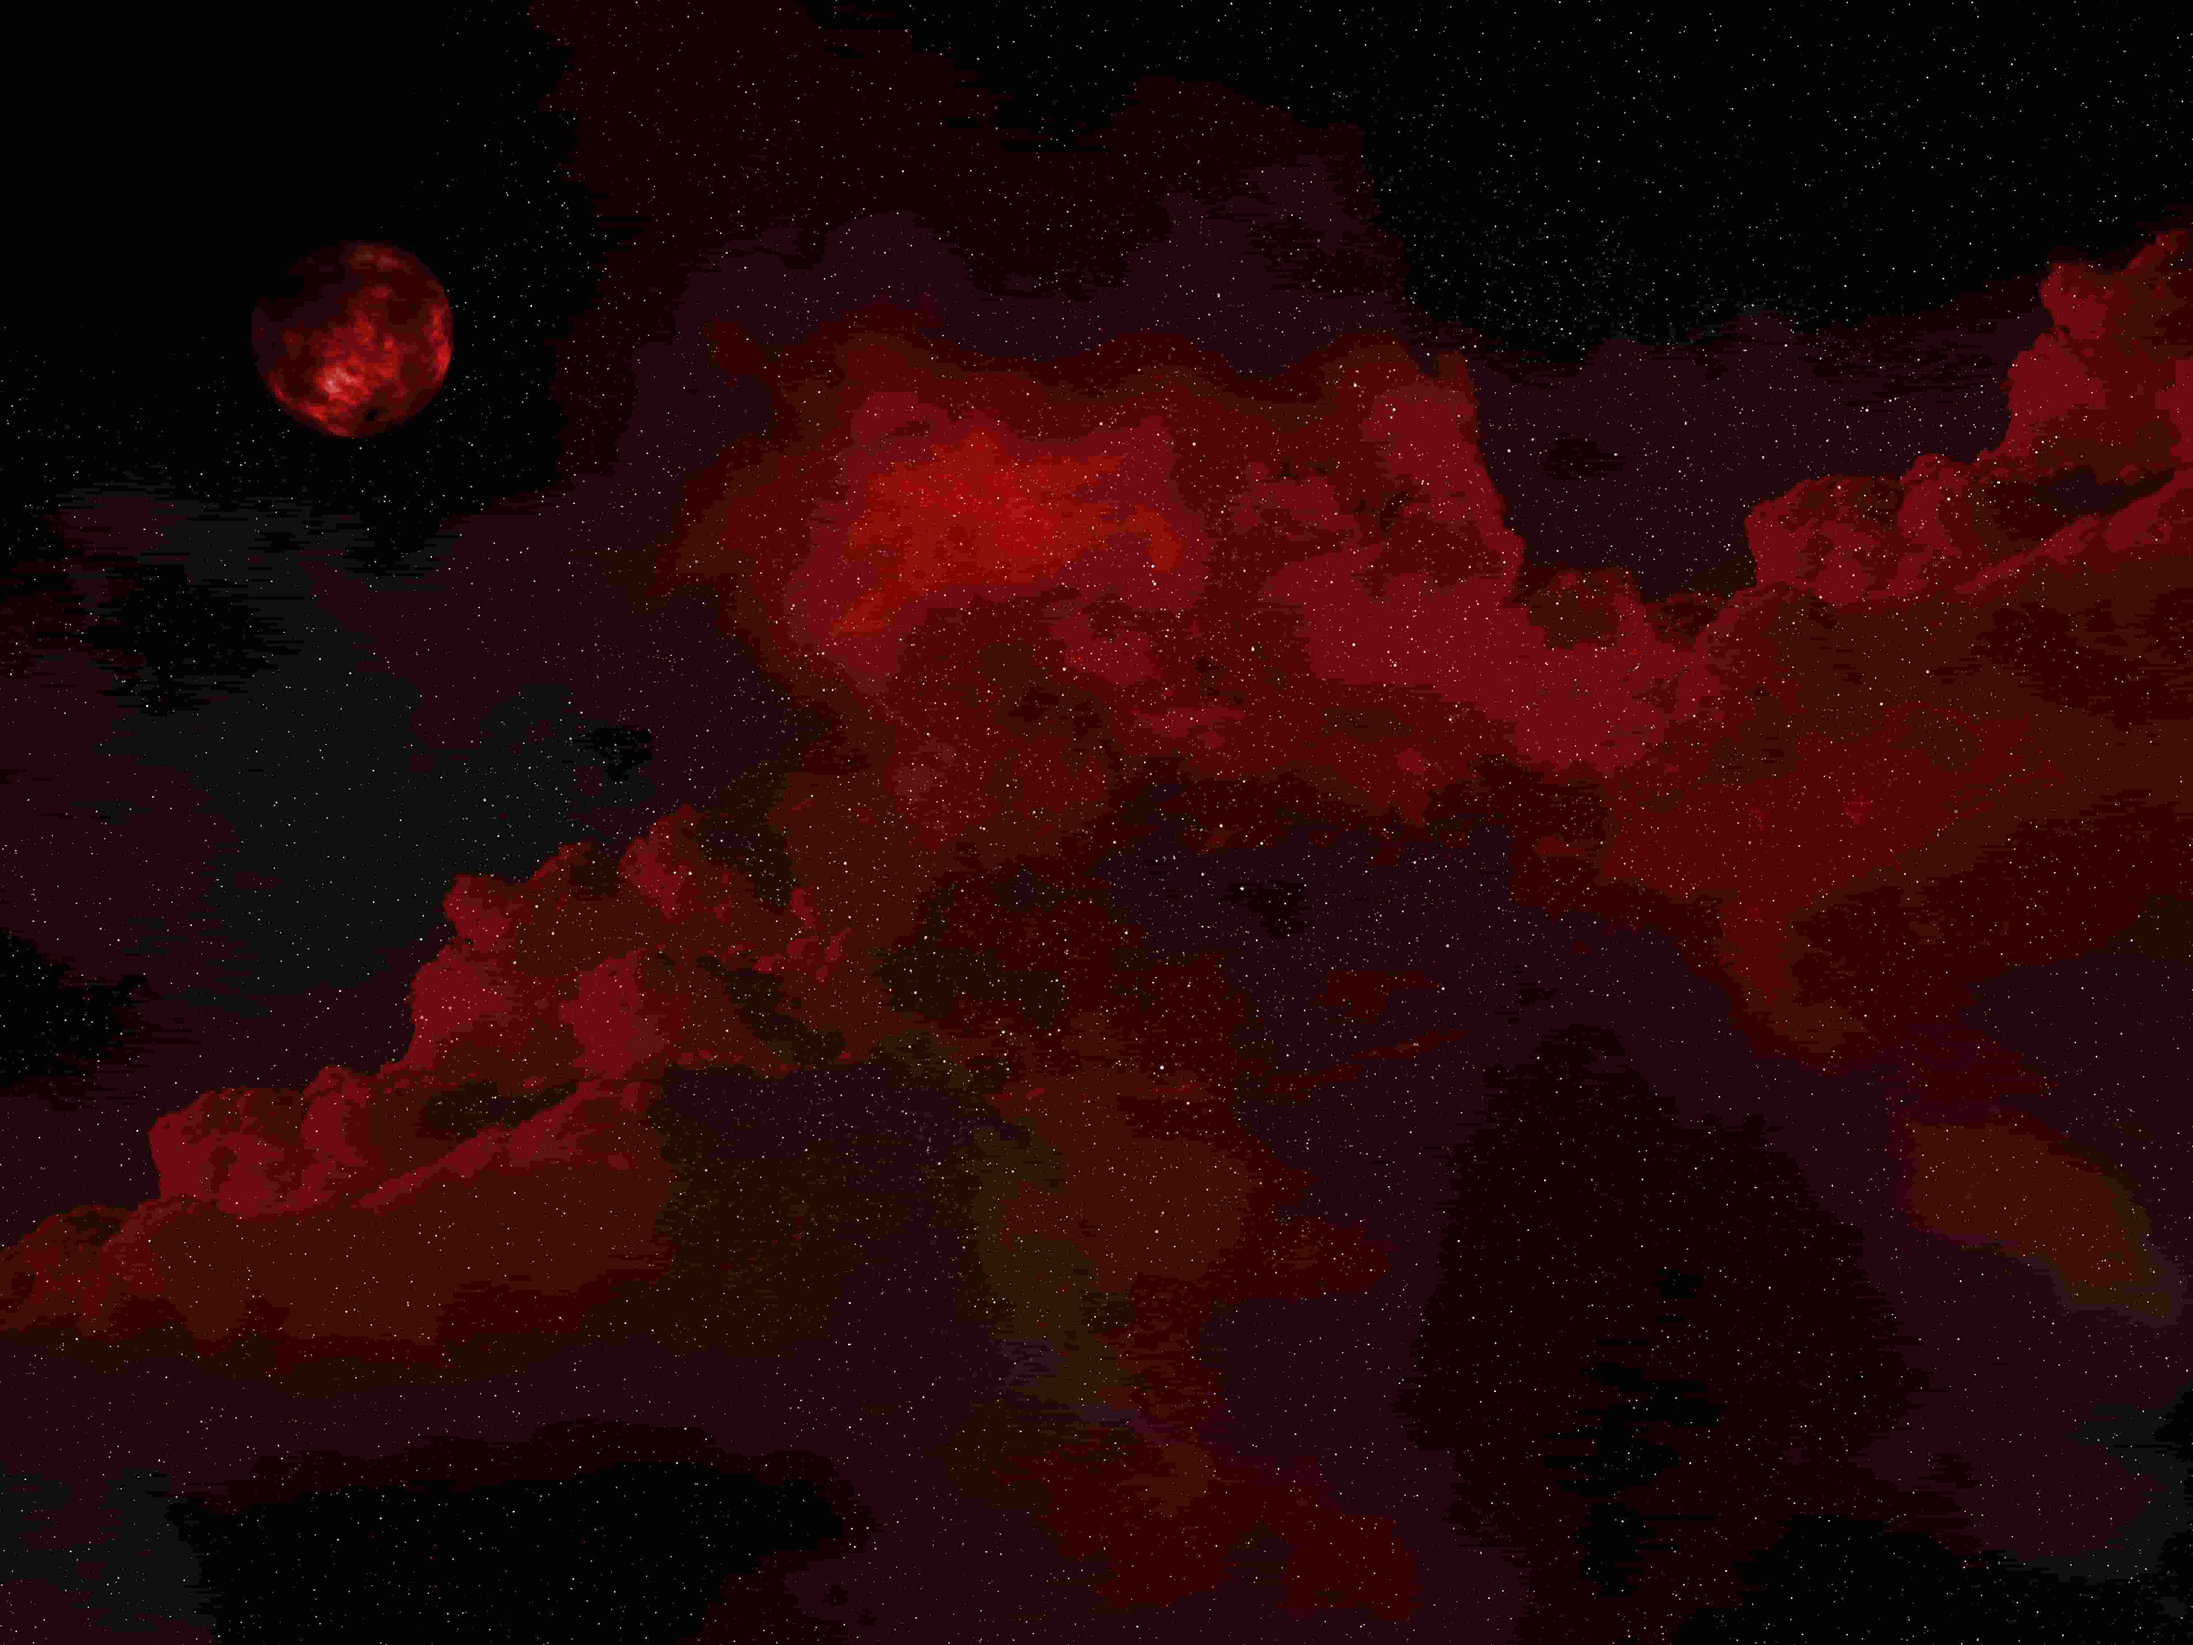
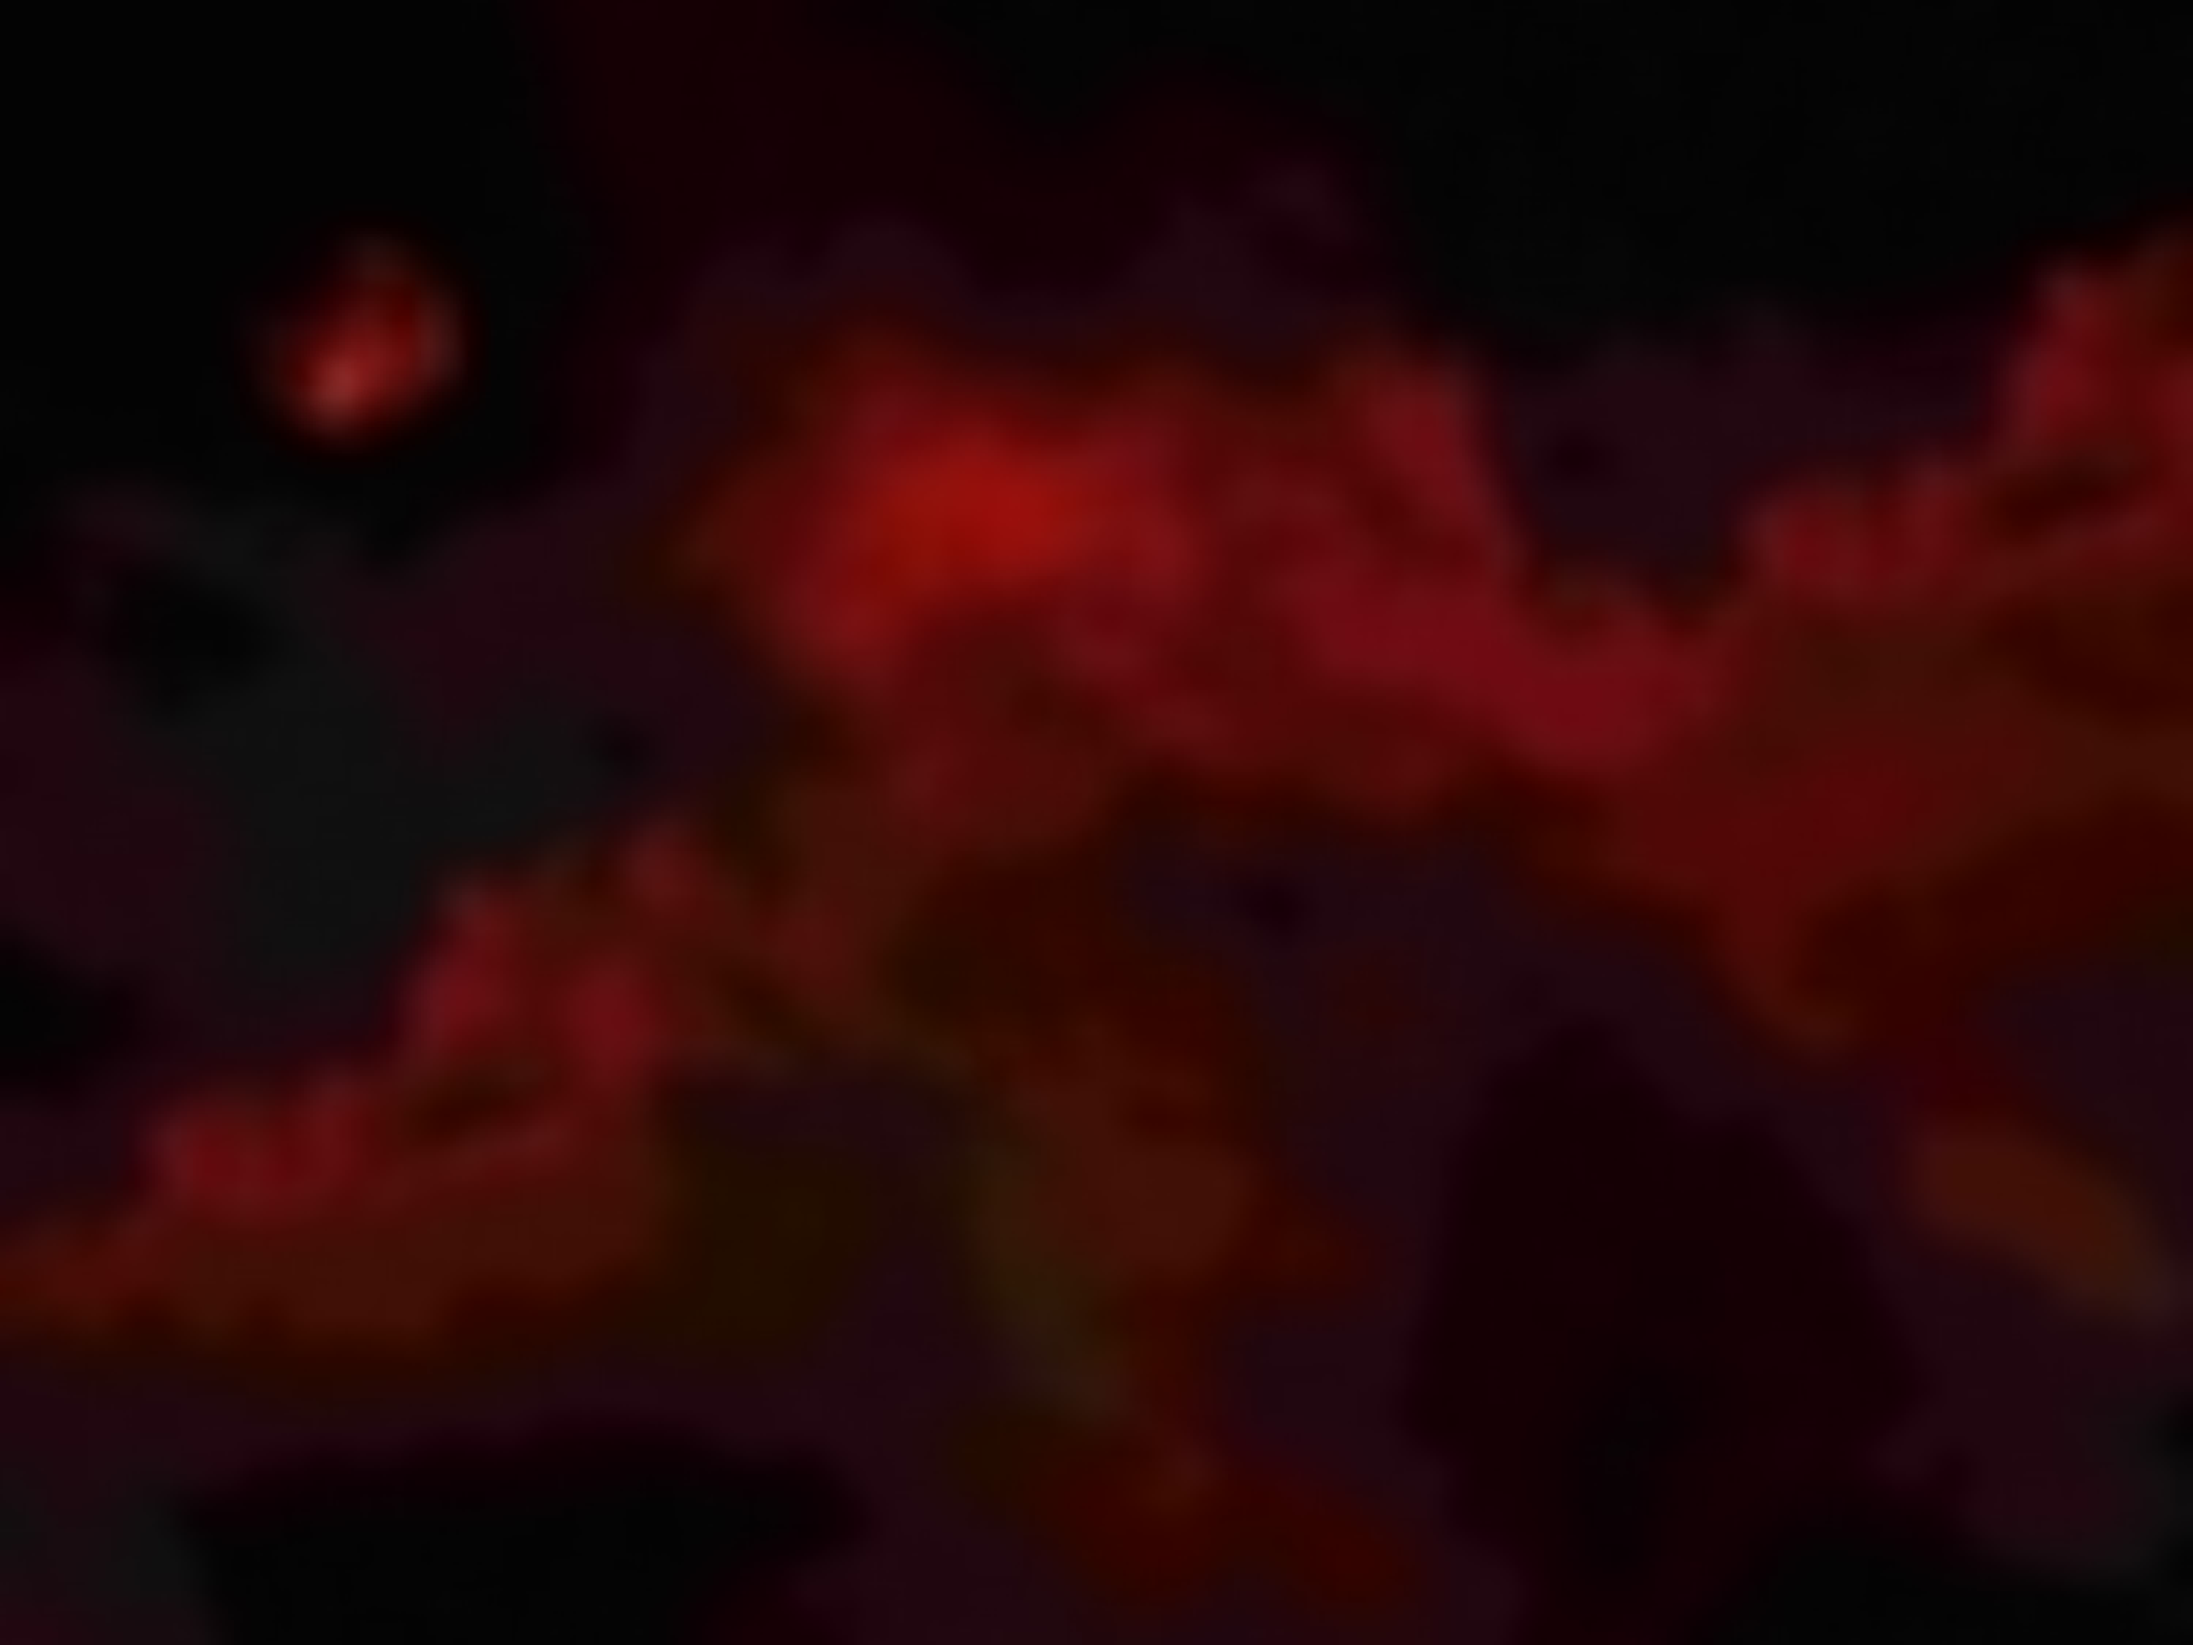
does a lot of css changes and html updates

diff --git a/public/index.html b/public/index.html
@@ -8,16 +8,30 @@
         <link rel="stylesheet" href="css/main.css" />
     </head>
     <body>
-        <div class="bkg"></div>
         <main>
             <header>
                 <h1>~autumn's internet cafe</h1>
             </header>
             <h2>hiii</h2>
             <p>welcome to my corner on the internet!</p>
-            <p>
-                <strong>please remember, this website is in construction!</strong>
-            </p>
+            <p><strong>please remember, this website is in construction!</strong></p>
+            <h2>about</h2>
+            <p>i mean, what do you really put in an about section?</p>
+            <p>if you wanna learn more about me or this website, you can <a href="about">here</a></p>
+            <h2>contact</h2>
+            <p>i got banned off of discord for not wanting to give them my ID</p>
+            <p>there's two ways you can communiate to me for now :)</p>
+            <p>two things you need to know real quick before chatting!</p>
+            <ul>
+                <li>email is slower, and i <strong>HIGHLY RECCOMEND</strong> that you use my GPG key!</li>
+                <li>i will respond faster to you on signal, and you do <strong>NOT</strong> use my GPG key.</li>
+            </ul>
+            <br />
+            <ul>
+                <li><a href="mailto:me@jackpurrin.moe">email (me@jackpurrin.moe)</a></li>
+                <li><a href="assets/keys/main.gpg">my GPG key</a></li>
+                <li><a href="https://signal.me/#eu/KUKlHmj4zcMSGzuLmm_ztG4DfBC-5wLXJpsAyjrdG__xTtEbbotKgZAtDy2bvyc-">signal (autumn.454)</a></li>
+            </ul>
         </main>
     </body>
 </html>

diff --git a/public/css/main.css b/public/css/main.css
@@ -1,37 +1,16 @@
 @import url(fonts.css);
 @import url(vars.css);
 
-body,
 html {
-    margin: 0;
-    padding: none;
-    height: 100%;
-    background-color: var(--bkg-color);
-}
-.bkg {
-    background-image: url("/assets/img/background.jpg");
-    height: 100vh;
+    background-image: url('/assets/img/background.jpg');
+    background-size: fit;
     background-position: center;
     background-repeat: no-repeat;
-    background-size: cover;
-    filter: blur(8px);
-    -webkit-filter: blur(8px);
+    line-height: 1rem !important;
 }
+
 main {
-    margin: 0;
-    position: absolute;
-    top: 50%;
-    left: 50%;
-    transform: translate(-50%, -50%);
+    border: 2px var(--border-color) solid;
     background-color: var(--bkg-color);
-    border: 2.5px var(--border-color) solid;
-    width: 45%;
-}
-i {
-    padding: 10px;
-}
-ul {
-    list-style: none;
-    padding: 0;
-    margin: none;
+    padding: var(--padding);
 }

diff --git a/public/css/fonts.css b/public/css/fonts.css
@@ -12,3 +12,14 @@ a {
     color: var(--link-color);
     text-decoration: none;
 }
+
+ul {
+    list-style: none;
+    padding: 0;
+    margin: 0;
+
+}
+
+li {
+    margin: 0;
+}
